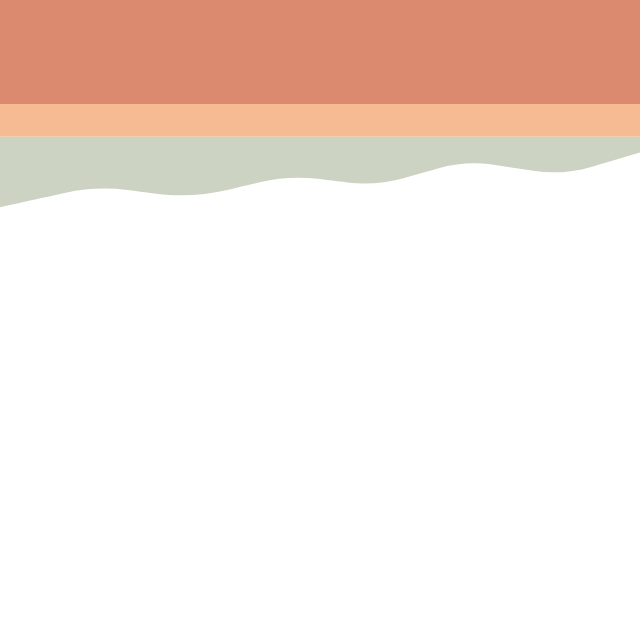
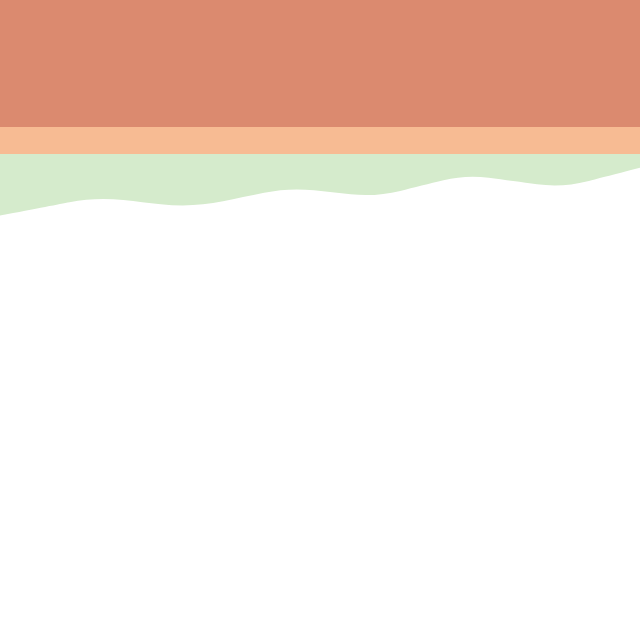
stylizing

Changed region(s): [[0.0, 0.1562, 1.0, 0.3438]]

diff --git a/index.js b/index.js
@@ -43,22 +43,22 @@ function displayFlightResults(responseJson) {
 
        if (departureAirport === $('.airport0').val().toUpperCase() && arrivalAirport === $('.destination').val().toUpperCase()) {
             $('.departingFlight1').append(
-                `<li class="flight1"><h4 class="airportCodeTitle">Departing Flight ${departureAirport} to ${arrivalAirport}</h4><p>Leaving on: ${jsonDateFormat} at ${departureDate.getHours()}:${departureDate.getUTCMinutes()}<br> Arriving at destination on: ${jsonDateFormat} at ${arrivalDate.getHours()}:${arrivalDate.getMinutes()}<br><button class="selectFlight">Select</button></p></li>`
+                `<li class="flight1"><h4 class="airportCodeTitle">Departing Flight ${departureAirport} to ${arrivalAirport}</h4><p class="departureAndArrivalInfo">Leaving on: ${jsonDateFormat} at ${departureDate.getHours()}:${departureDate.getUTCMinutes()}<br> Arriving at destination on: ${jsonDateFormat} at ${arrivalDate.getHours()}:${arrivalDate.getMinutes()}<br><button class="selectFlight">Select</button></p></li>`
             )
         }
         if (departureAirport === $('.destination').val().toUpperCase() && arrivalAirport === $('.airport0').val().toUpperCase()) {
             $('.departingFlight2').append(
-                `<li class="flight2"><h4 class="airportCodeTitle">Return Flight ${departureAirport} to ${arrivalAirport}</h4><p>Leaving on: ${jsonDateFormat} at ${departureDate.getHours()}:${departureDate.getUTCMinutes()}<br> Arriving at destination on: ${jsonDateFormat} at ${arrivalDate.getHours()}:${arrivalDate.getMinutes()}<br><button class="selectFlight">Select</button></p></li>`
+                `<li class="flight2"><h4 class="airportCodeTitle">Return Flight ${departureAirport} to ${arrivalAirport}</h4><p class="departureAndArrivalInfo">Leaving on: ${jsonDateFormat} at ${departureDate.getHours()}:${departureDate.getUTCMinutes()}<br> Arriving at destination on: ${jsonDateFormat} at ${arrivalDate.getHours()}:${arrivalDate.getMinutes()}<br><button class="selectFlight">Select</button></p></li>`
             )
         }
         if (departureAirport === $('.airport1').val().toUpperCase() && arrivalAirport === $('.destination').val().toUpperCase()) {
             $('.departingFlight3').append(
-                `<li class="flight3"><h4 class="airportCodeTitle">Departing Flight ${departureAirport} to ${arrivalAirport}</h4><p>Leaving on: ${jsonDateFormat} at ${departureDate.getHours()}:${departureDate.getUTCMinutes()}<br> Arriving at destination on: ${jsonDateFormat} at ${arrivalDate.getHours()}:${arrivalDate.getMinutes()}<br><button class="selectFlight">Select</button></p></li>`
+                `<li class="flight3"><h4 class="airportCodeTitle">Departing Flight ${departureAirport} to ${arrivalAirport}</h4><p class="departureAndArrivalInfo">Leaving on: ${jsonDateFormat} at ${departureDate.getHours()}:${departureDate.getUTCMinutes()}<br> Arriving at destination on: ${jsonDateFormat} at ${arrivalDate.getHours()}:${arrivalDate.getMinutes()}<br><button class="selectFlight">Select</button></p></li>`
             )
         }
         if (departureAirport === $('.destination').val().toUpperCase() && arrivalAirport === $('.airport1').val().toUpperCase()) {
             $('.departingFlight4').append(
-                `<li class="flight4"><h4 class="airportCodeTitle">Return Flight ${departureAirport} to ${arrivalAirport}</h4><p>Leaving on: ${jsonDateFormat} at ${departureDate.getHours()}:${departureDate.getUTCMinutes()}<br> Arriving at destination on: ${jsonDateFormat} at ${arrivalDate.getHours()}:${arrivalDate.getMinutes()}<br><button class="selectFlight">Select</button></p></li>`
+                `<li class="flight4"><h4 class="airportCodeTitle">Return Flight ${departureAirport} to ${arrivalAirport}</h4><p class="departureAndArrivalInfo">Leaving on: ${jsonDateFormat} at ${departureDate.getHours()}:${departureDate.getUTCMinutes()}<br> Arriving at destination on: ${jsonDateFormat} at ${arrivalDate.getHours()}:${arrivalDate.getMinutes()}<br><button class="selectFlight">Select</button></p></li>`
             )
         }
     }

diff --git a/style.css b/style.css
@@ -30,9 +30,10 @@ input {
 }
 
 h1 {
-    font-size: 2.2em;
+    font-size: 3em;
     padding: 10px 0 0 0;
     margin: 0;
+    font-family: 'Petit Formal Script', cursive;
 }
 
 h2 {
@@ -42,6 +43,12 @@ h2 {
 
 .enterDestination {
     padding: 2%;
+}
+
+.yourTrip {
+    font-family: 'Petit Formal Script', cursive;
+    padding-bottom: 0;
+    font-size: 1.5em;
 }
 
 .enterDestination, input {
@@ -64,9 +71,13 @@ section {
 .letsGo {
     padding: 10px 40px;
     margin: 20px;
-    font-size: 1.2em;
-    border: 3px solid rgb(205, 211, 194);
+    font-size: 1.3em;
+    border: 3px solid rgb(213, 235, 204);
     border-radius: 4px;
+}
+
+.letsGo:hover {
+    background-color: rgb(213, 235, 204);
 }
 
 .flightSearchResults {
@@ -102,10 +113,15 @@ h3 {
     justify-content: center;
 }
 
+.airportCodeTitle, .departureAndArrivalInfo {
+    font-size: 12px;
+}
+
 .flight1, .flight2, .flight3, .flight4, .selectedFlight {
     list-style: none;
     text-align: left;
-    border: solid 1px black;
+    border: none;
+    background-color: white;
     margin-left: auto;
     margin-right: auto;
     margin-bottom: 10px;
@@ -115,7 +131,11 @@ h3 {
 .selectFlight {
     display: block;
     align-content: center;
-    margin: 5px auto;
+    padding: 5px 10px;
+    font-size: 14px;
+    background-color: rgb(219, 138, 111);
+    border-radius: 4px;
+    margin: 10px auto;
 }
 
 .selectedFlight {
@@ -124,9 +144,10 @@ h3 {
 
 .flightResults1, .flightResults2 {
     padding: 8px;
-    border: solid 1px black;
+    border: none;
+    background-color: rgb(213, 235, 204);
     display: inline-block;
-    margin: 10px;
+    margin: 20px 10px;
     align-content: center;
     width: 48%;
 }
@@ -172,6 +193,7 @@ img {
 
 button {
     background: none;
+    border: none;
 }
 
 img:hover, button:hover {

diff --git a/photoAPI.js b/photoAPI.js
@@ -14,7 +14,7 @@ function displayPhotos(responseJson) {
     const destination = $('.destination').val().toUpperCase();
     $('.destinationPhotoList').empty();
     $('.destinationName').empty();
-    $('.destinationName').append(`<h2>Ah, Beautiful ${airportCodeData[destination]}</h2>`);
+    $('.destinationName').append(`<h2 class="yourTrip">Your Trip To ${airportCodeData[destination]}</h2>`);
     for (let i = 0; i < responseJson.results.length; i++) {
         $('.destinationPhotoList').append(
             `<li class="photo"><img src="${responseJson.results[i].urls.full}" alt="Picture of ${airportCodeData[destination]}"</li>`

diff --git a/index.html b/index.html
@@ -6,7 +6,7 @@
         <meta http-equiv="X-UA-Compatible" content="ie=edge">
         <title>MeetMe</title>
         <link rel="stylesheet" href="style.css">
-        <link href="https://fonts.googleapis.com/css?family=Montserrat|Poiret+One" rel="stylesheet">
+        <link href="https://fonts.googleapis.com/css?family=Montserrat|Petit+Formal+Script" rel="stylesheet">
         <script src="https://code.jquery.com/jquery-3.3.1.js" integrity="sha256-2Kok7MbOyxpgUVvAk/HJ2jigOSYS2auK4Pfzbm7uH60=" crossorigin="anonymous"></script>
     </head>
     <body>
